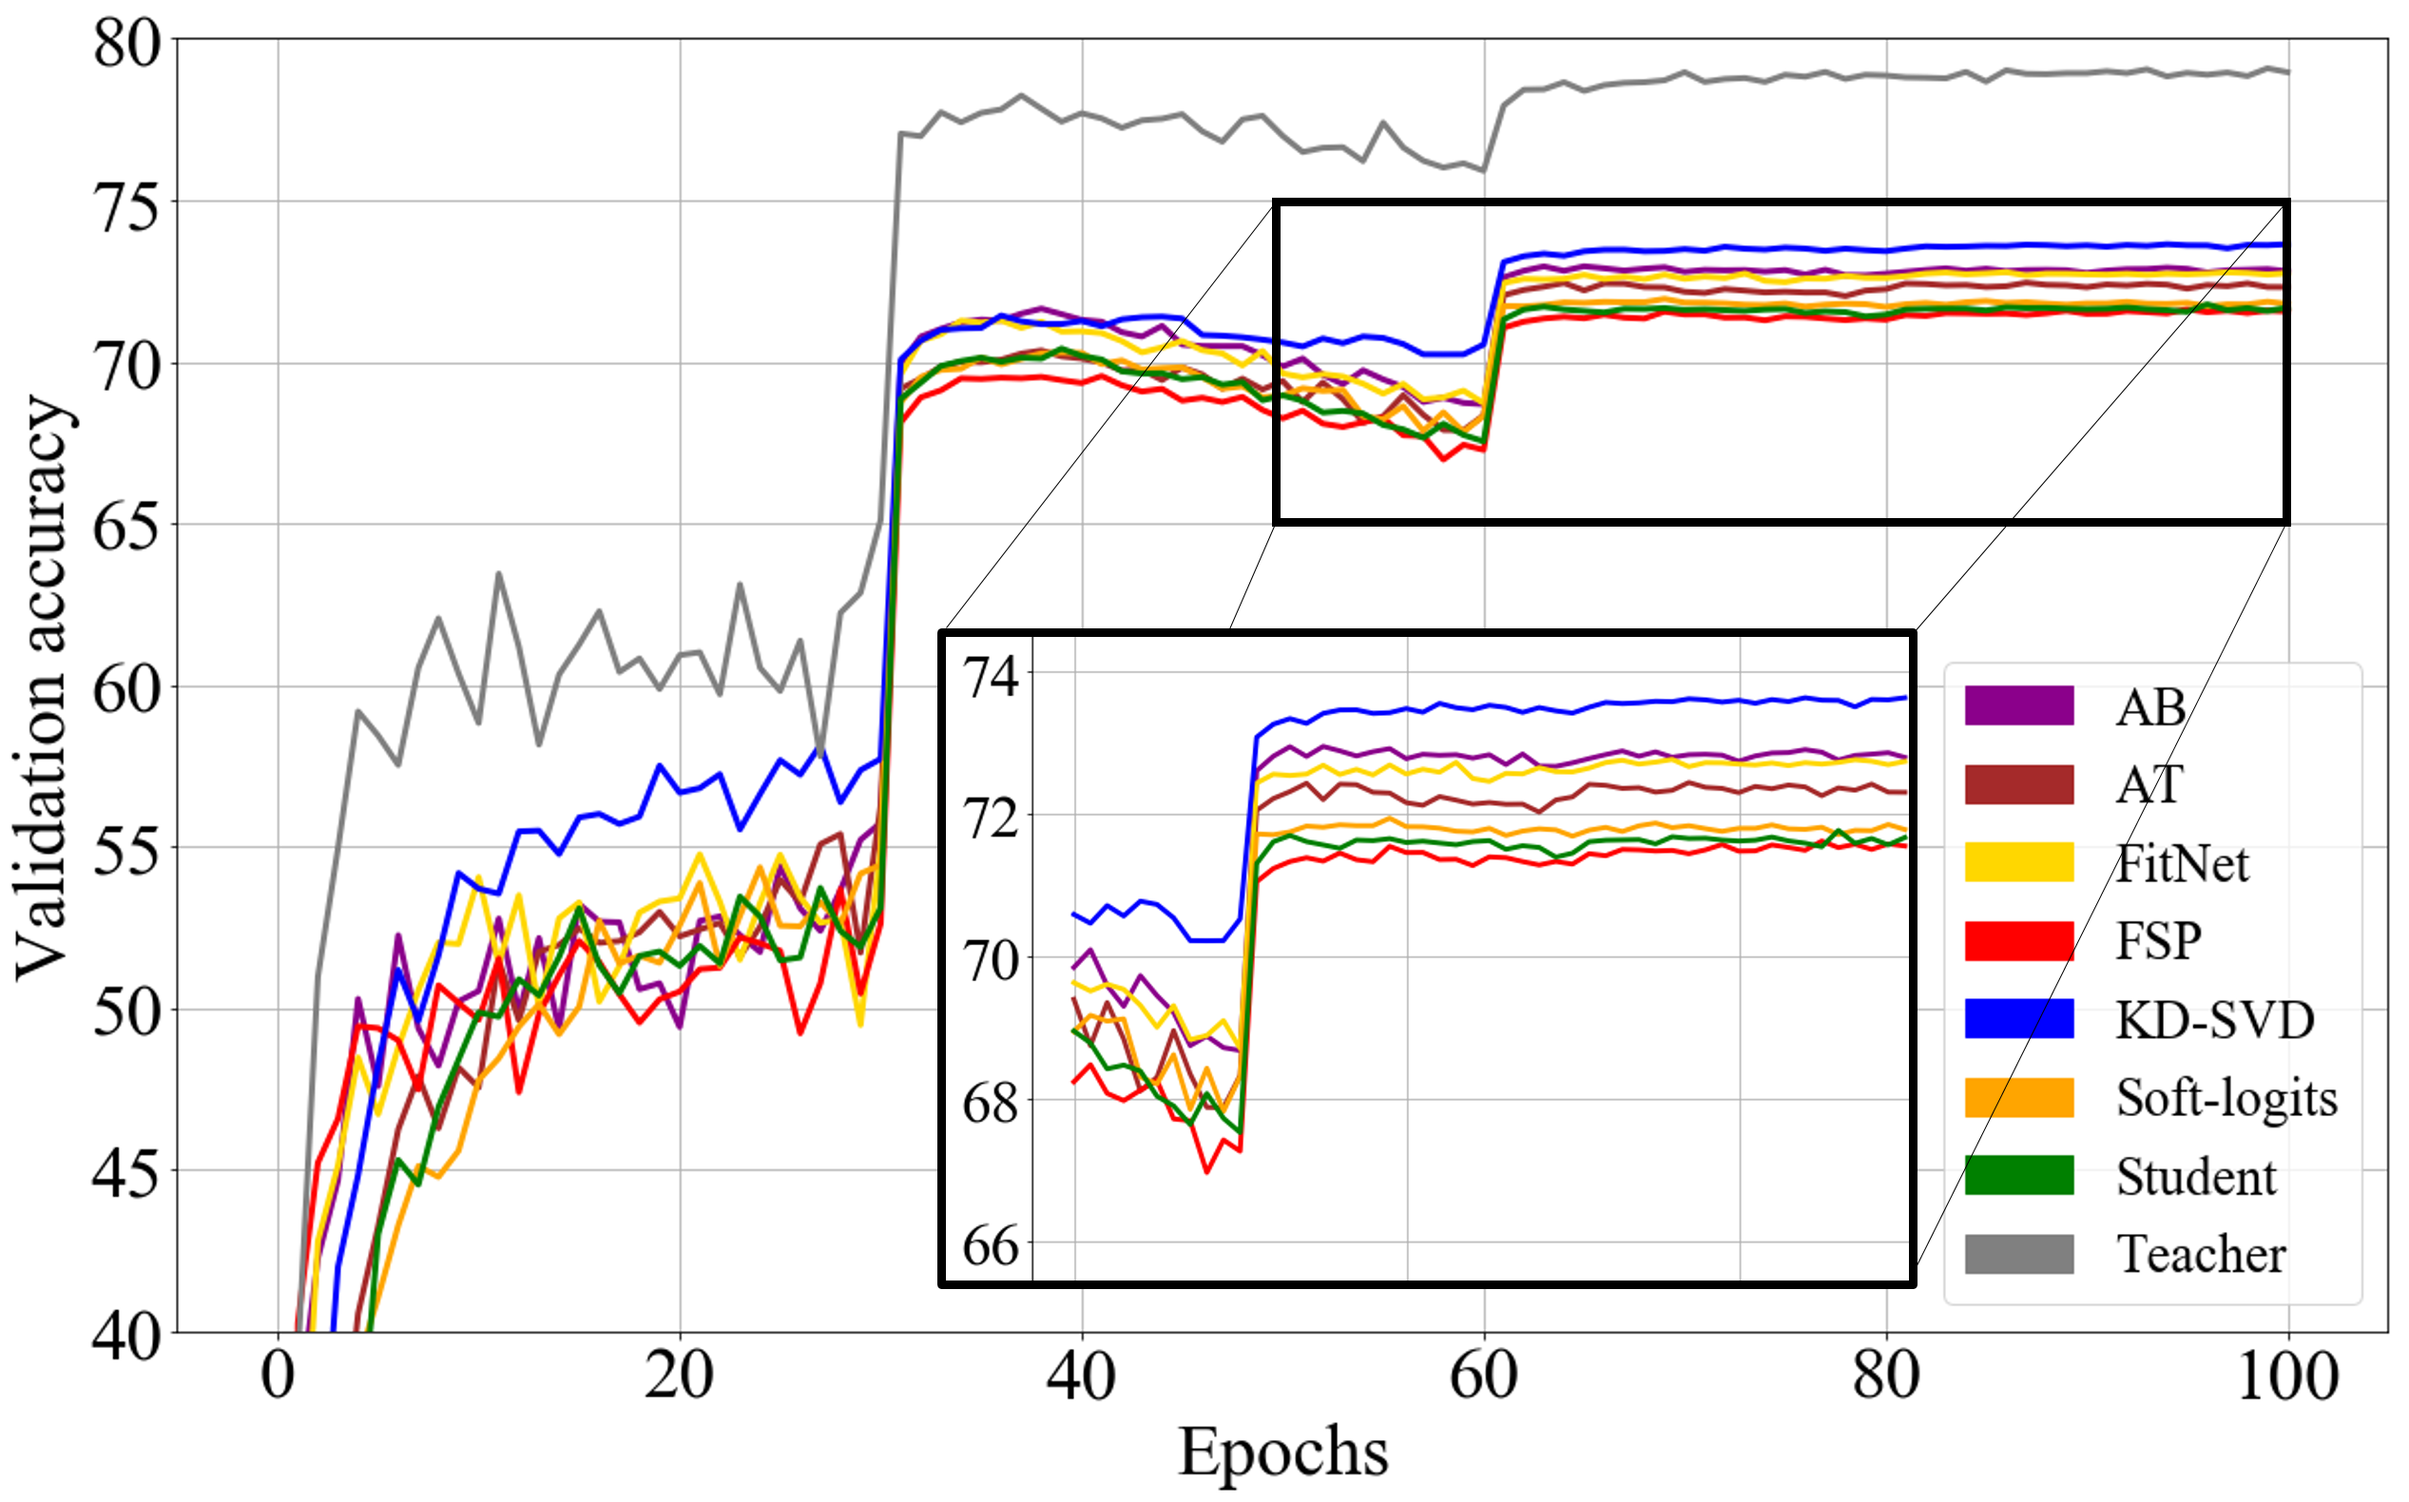
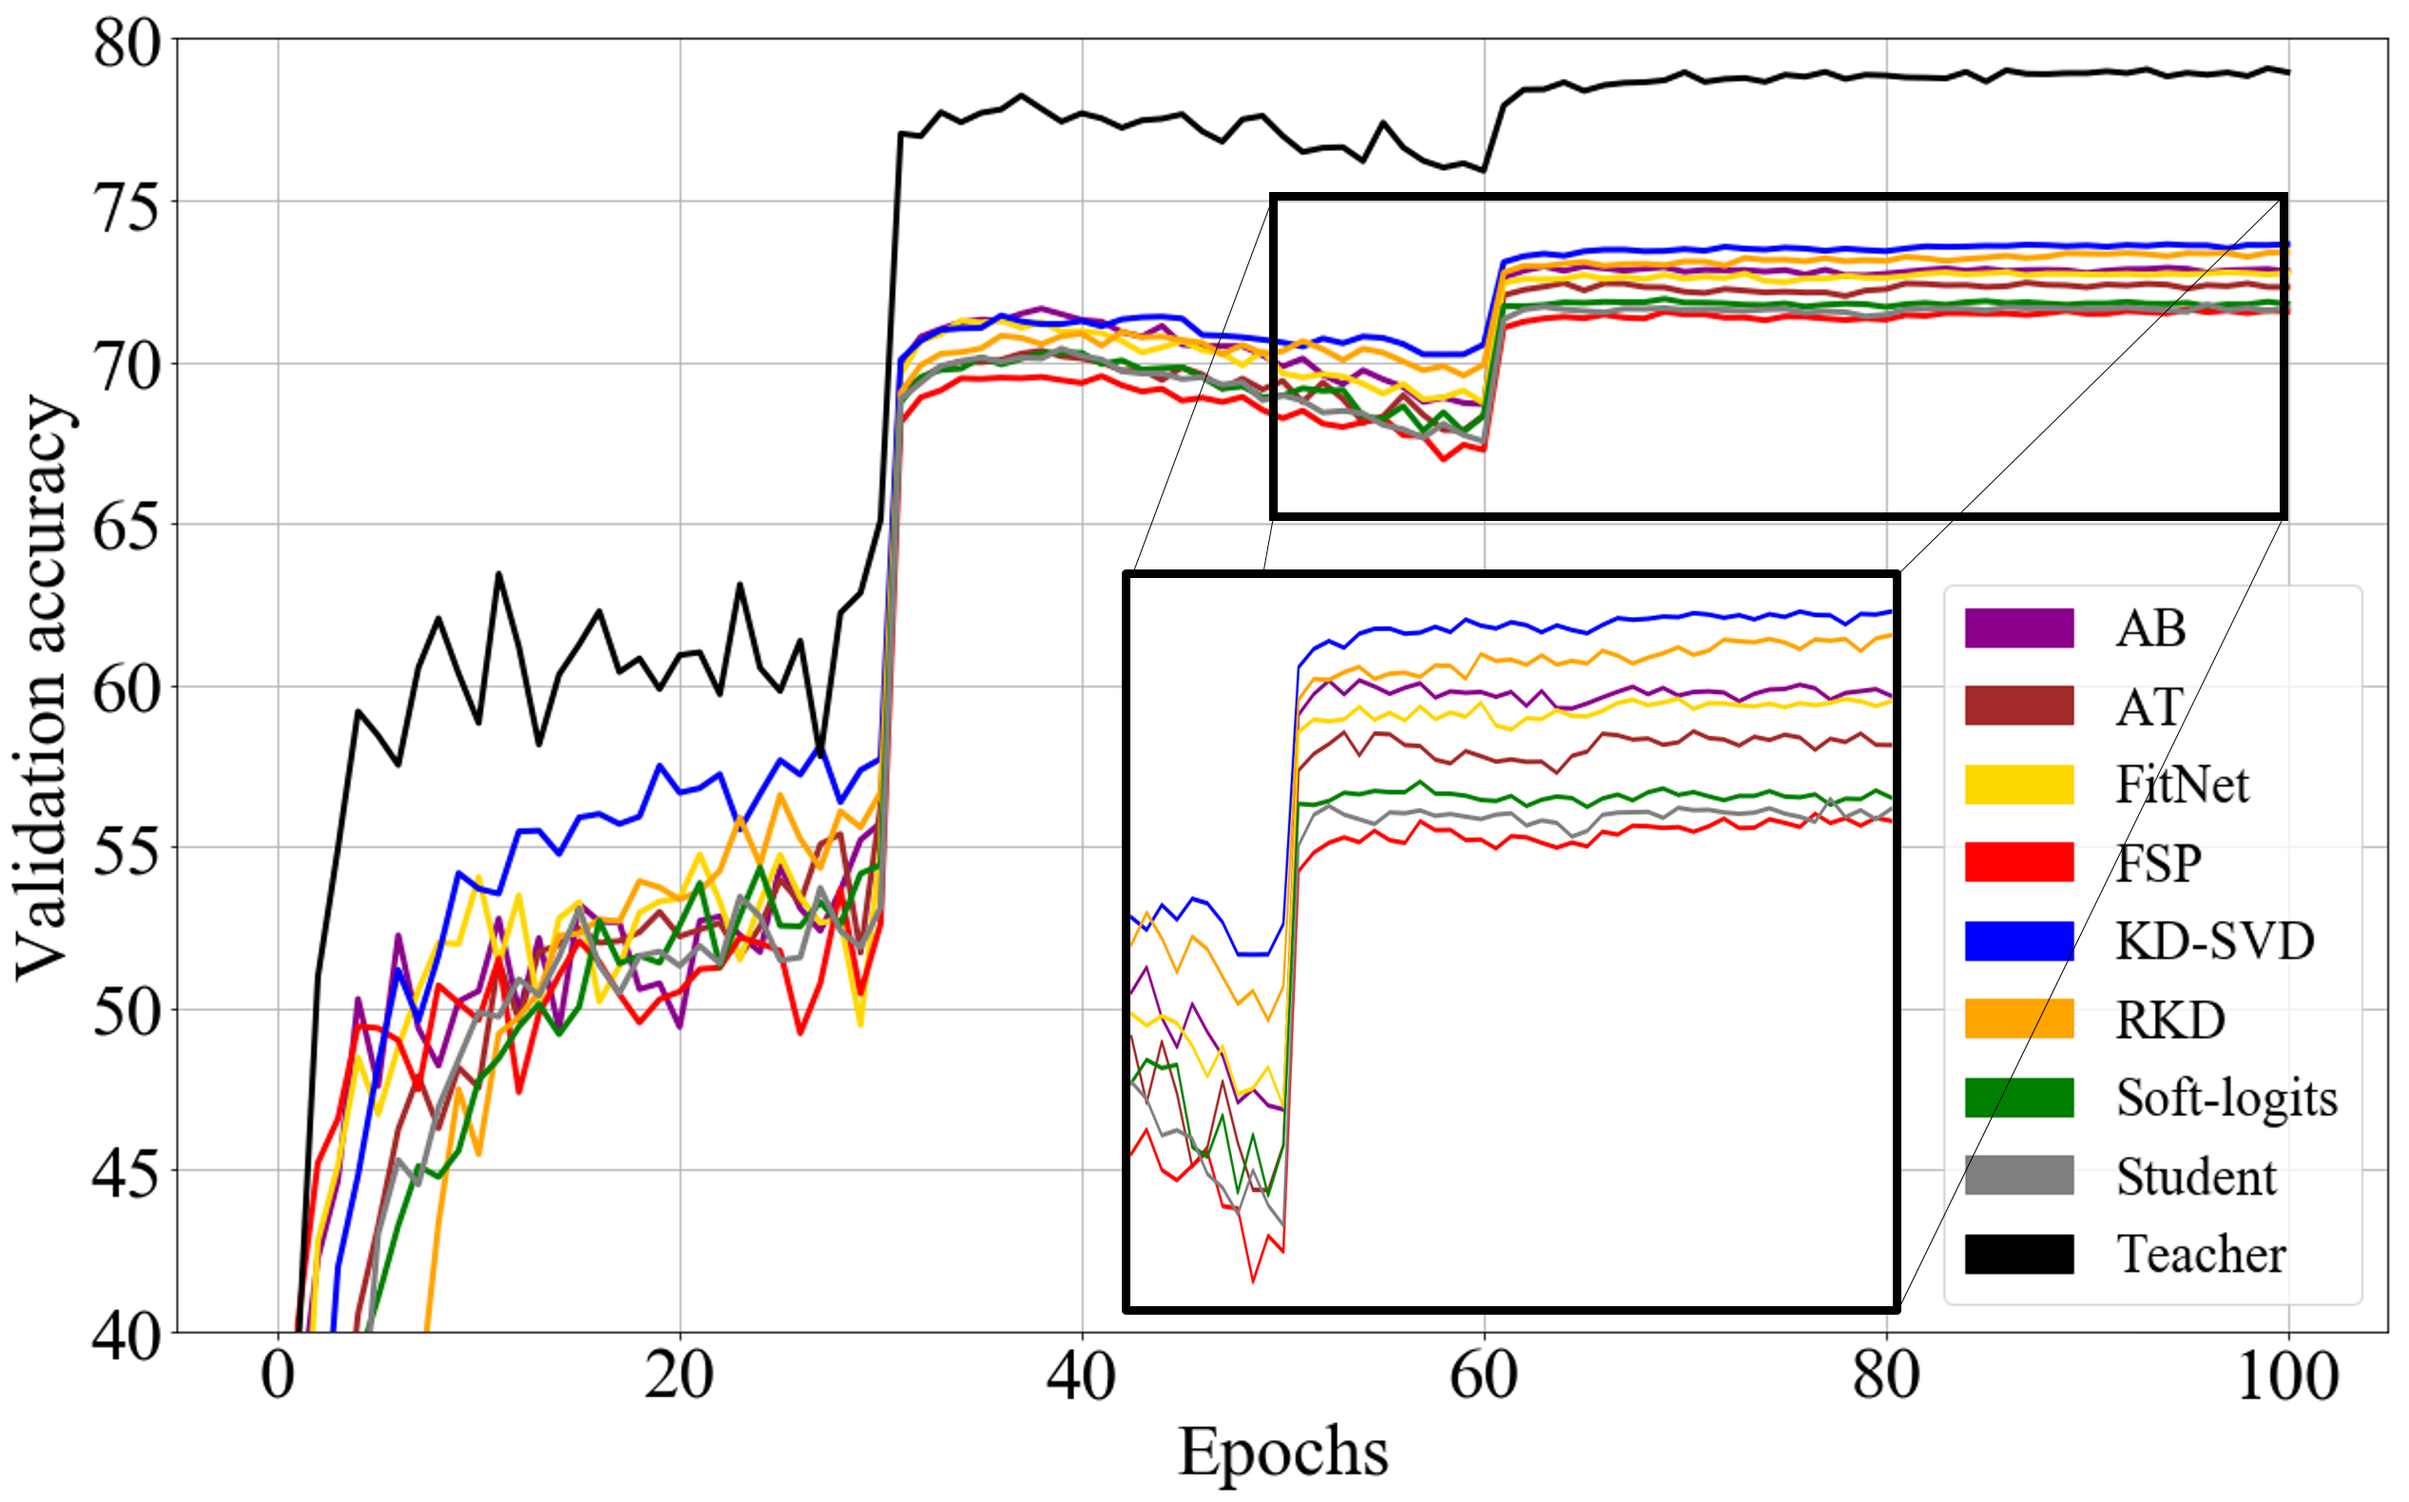
add RKD

diff --git a/nets/Distillation.py b/nets/Distillation.py
@@ -142,3 +142,41 @@ def AB_distillation(student, teacher, margin=1., weight = 1e-3):
     B = student[0].get_shape().as_list()[0]
     return tf.add_n([criterion_alternative_L2(std, tch, margin)/B/2**(-i)
                     for i, std, tch in zip(range(len(student)), student, teacher)])*weight
+    
+def RKD(source, target, l = [1e2,2e2]):
+    '''
+    Wonpyo Park, Dongju Kim, Yan Lu, Minsu Cho.  
+    relational knowledge distillation.
+    arXiv preprint arXiv:1904.05068, 2019.
+    '''
+    with tf.variable_scope('Relational_Knowledge_distillation'):
+        def Huber_loss(x,y):
+            with tf.variable_scope('Huber_loss'):
+                return tf.reduce_sum(tf.where(tf.less_equal(tf.abs(x-y), 1.), tf.square(x-y)/2,
+                                                   tf.abs(x-y)-1/2))
+            
+        def Distance_wise_potential(x):
+            with tf.variable_scope('DwP'):
+                x_square = tf.reduce_sum(tf.square(x),-1)
+                prod = tf.matmul(x,x,transpose_b=True)
+                distance = tf.sqrt(tf.maximum(tf.expand_dims(x_square,1)+tf.expand_dims(x_square,0) -2*prod, 1e-12))
+                mu = tf.reduce_sum(distance)/tf.reduce_sum(tf.where(distance > 0., tf.ones_like(distance), tf.zeros_like(distance)))
+                return distance/(mu+1e-8)
+            
+        def Angle_wise_potential(x):
+            with tf.variable_scope('AwP'):
+                e = tf.expand_dims(x,0)-tf.expand_dims(x,1)
+                e_norm = tf.nn.l2_normalize(e,2)
+            return tf.matmul(e_norm, e_norm,transpose_b=True)
+
+        source = tf.nn.l2_normalize(source)
+        target = tf.nn.l2_normalize(target)
+        distance_loss = Huber_loss(Distance_wise_potential(source),Distance_wise_potential(target))
+        angle_loss    = Huber_loss(   Angle_wise_potential(source),   Angle_wise_potential(target))
+        
+        return distance_loss*l[0]+angle_loss*l[1]
+    
+    
+    
+    
+    

diff --git a/train_w_distill.py b/train_w_distill.py
@@ -18,17 +18,17 @@ home_path = os.path.dirname(os.path.abspath(__file__))
 
 tf.app.flags.DEFINE_string('train_dir', 'test',
                            'Directory where checkpoints and event logs are written to.')
-tf.app.flags.DEFINE_string('Distillation', 'KD-SVD',
-                           'Distillation method : Soft_logits, FitNet, AT, FSP, KD-SVD, AB')
+tf.app.flags.DEFINE_string('Distillation', 'RKD',
+                           'Distillation method : Soft_logits, FitNet, AT, FSP, KD-SVD, AB, RKD')
 FLAGS = tf.app.flags.FLAGS
 def main(_):
     ### define path and hyper-parameter
     model_name   = 'ResNet'
     Learning_rate =1e-1# initialization methods : 1e-2, others : 1e-1
 
-    batch_size = 16
+    batch_size = 4
     val_batch_size = 200
-    train_epoch = 100
+    train_epoch = 0
     init_epoch = 40 if FLAGS.Distillation == 'FitNet' or FLAGS.Distillation == 'FSP' or FLAGS.Distillation == 'AB' else 0
     
     total_epoch = init_epoch + train_epoch

diff --git a/op_util.py b/op_util.py
@@ -20,7 +20,7 @@ def Optimizer_w_Distillation(class_loss, LR, epoch, init_epoch, global_step, Dis
             total_loss = class_loss*0.7 + tf.add_n(tf.losses.get_regularization_losses()) + tf.add_n(tf.get_collection('dist'))*0.3
             tf.summary.scalar('loss/total_loss', total_loss)
             gradients  = optimize.compute_gradients(total_loss, var_list = variables)
-        elif Distillation == 'AT':
+        elif Distillation == 'AT' or Distillation == 'RKD':
             # simple multi-task learning
             total_loss = class_loss + tf.add_n(tf.losses.get_regularization_losses()) + tf.add_n(tf.get_collection('dist'))
             tf.summary.scalar('loss/total_loss', total_loss)

diff --git a/nets/ResNet.py b/nets/ResNet.py
@@ -98,6 +98,8 @@ def ResNet(image, is_training=False, reuse = False, drop = False, Distill = None
                 end_points['Dist'] = Dist.KD_SVD(student_feats, teacher_feats)
             elif Distill == 'AB':
                 end_points['Dist'] = Dist.AB_distillation(student_feats, teacher_feats, 1., 1e-3)
+            elif Distill == 'RKD':
+                end_points['Dist'] = Dist.RKD(logits, logits_tch)
 
             tf.add_to_collection('dist', end_points['Dist'])
     return end_points
